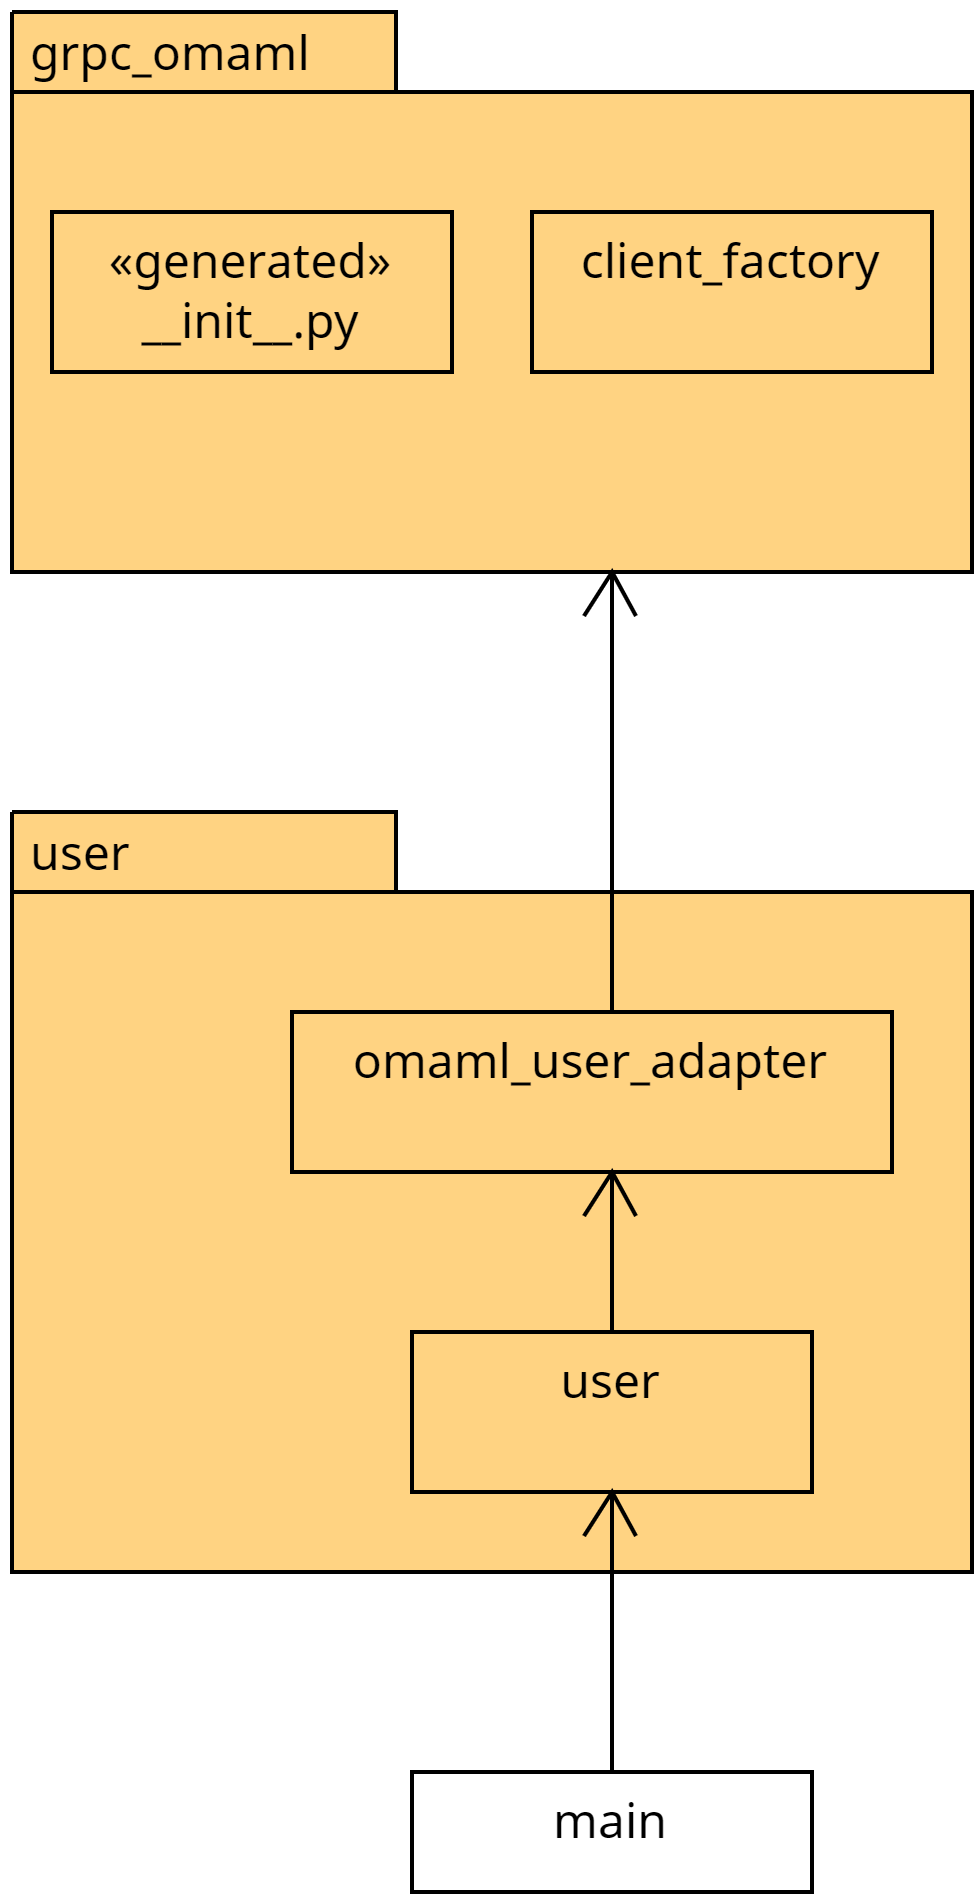
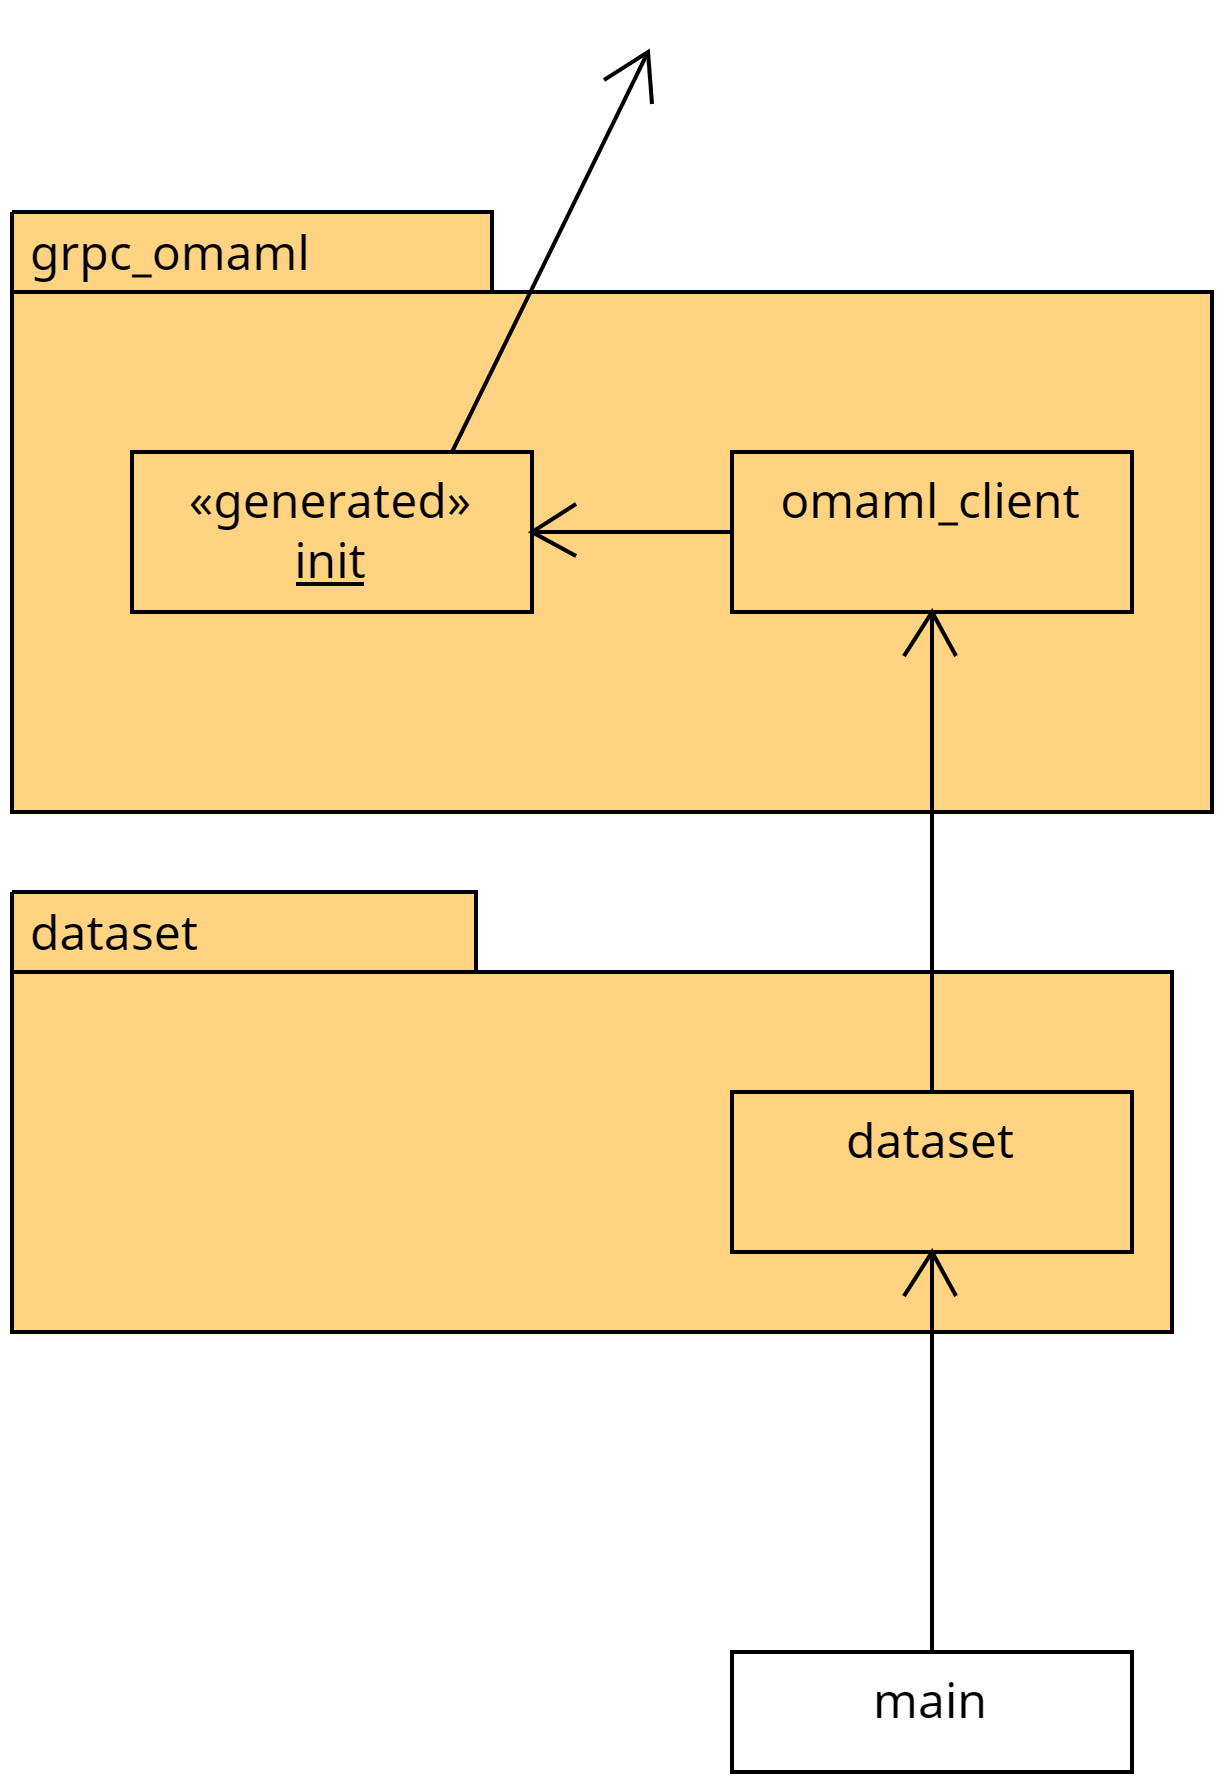
Update documentation and remove unused components

diff --git a/benchmark-tool/doc/architecture.md b/benchmark-tool/doc/architecture.md
@@ -22,14 +22,39 @@ See the folder [README](../README.md).
 3. OMAML is treated as an external dependency.
 4. External dependencies are encapsulated and only accessed through adapters (Dependency Inversion Principle). This allows changes in external dependencies with minimal code adaptions.
 5. The existing gRPC interface of the controller is used to communicate with OMAML.
+6. The trainings and datasets are configured in a yaml file. This allows to easily add new trainings and datasets.
+   1. The schema of the yaml file is validated against a json schema.
 
 ## Building Block View
 
 ### Interaction with OMAML
 
-The following diagram shows how OMAML is kept at the edge of the program on the example of the user initialization. The omaml_user_adapter defines how the benchmark wants to use the target system and takes care to translate this desired interface to the actual grpc interface.
+The following diagram shows how OMAML is kept at the edge of the program on the example of the user initialization. The omaml_client defines how the benchmark wants to use the target system and takes care to translate this desired interface to the actual grpc interface. It is the only component that knows about the grpc interface of OMAML. The omaml_client functions as an adapter between the benchmark tool and OMAML.
 
 ![diagram showing the interaction with omaml](./diagrams/omaml-interaction.png)
+
+### Configuration
+
+The benchmark tool is configured via environment variables. Access to reading the configuration is abstracted however so a switch to e.g. json is possible.
+The benchmark runs some basic checks whether the configuration is valid.
+
+![Building block view of the configuration access](./diagrams/bb_config.png)
+
+### Dataset
+
+The datasets are configured in a yaml file that is validated against a json schema during startup.
+
+![Building block view of the dataset interaction](./diagrams/bb_dataset.png)
+
+The read datasets are converted into typesafe dataclass instances.
+
+### Training
+
+The trainings are configured with the datasets in the yaml file. The trainings are also converted into typesafe dataclass instances.
+
+The training results are passed to a report instance.
+
+![Building block view of the training interaction](./diagrams/bb_training.png)
 
 <!--
 ## Runtime View

diff --git a/benchmark-tool/README.md b/benchmark-tool/README.md
@@ -22,8 +22,8 @@ If you are on windows and omaml was started with the usual docker compose files:
 
 Otherwise:
 
--   When on mac or linux: Create a new launch configuration by copy pasting the existing one and change the `OMAML_DATASET_LOCATION` environment variable to the location of the docker volume `metaautoml_datasets`
--   When not using docker: Change the `OMAML_DATASET_LOCATION` environment variable to the location of the datasets folder (configured in the launch.json of the controller)
+- When on mac or linux: Create a new launch configuration by copy pasting the existing one and change the `OMAML_DATASET_LOCATION` environment variable to the location of the docker volume `metaautoml_datasets`
+- When not using docker: Change the `OMAML_DATASET_LOCATION` environment variable to the location of the datasets folder (configured in the launch.json of the controller)
 
 ## Seeing actions in OMAML
 
